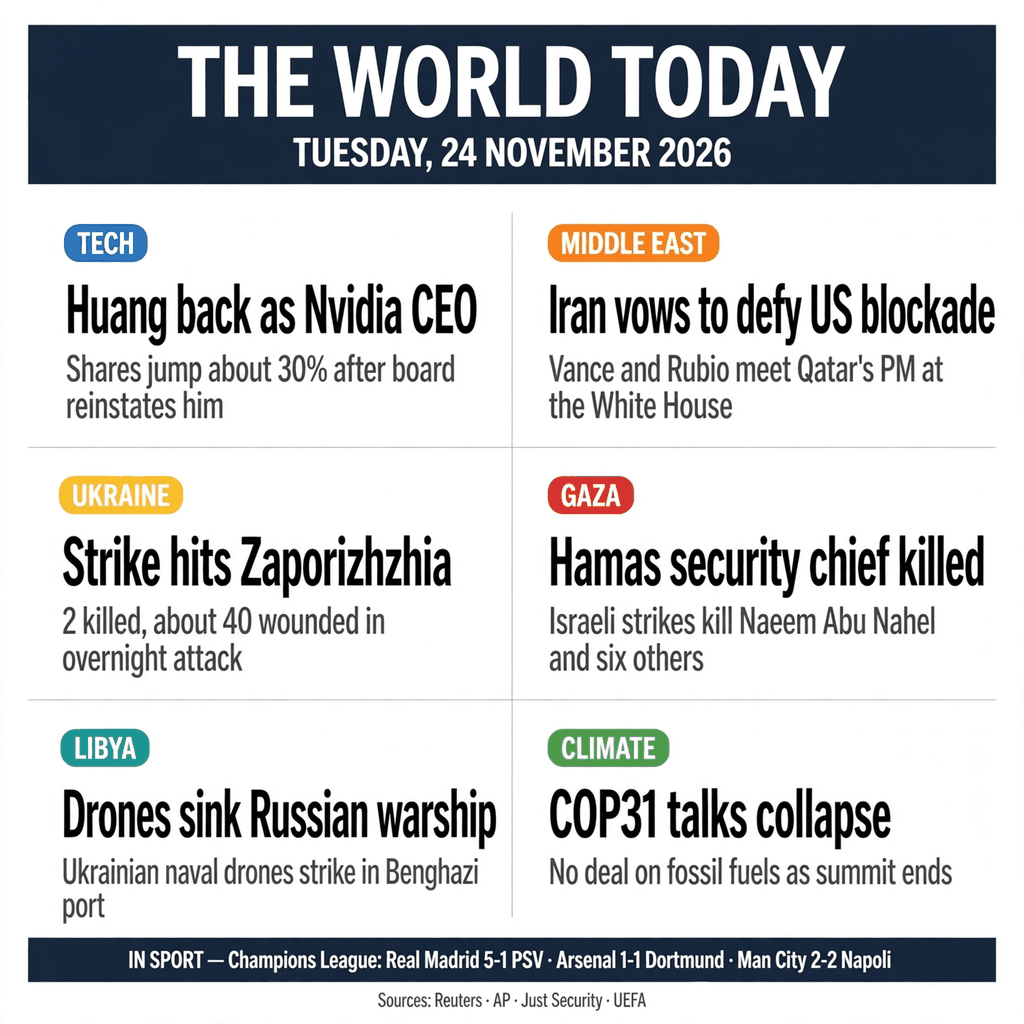
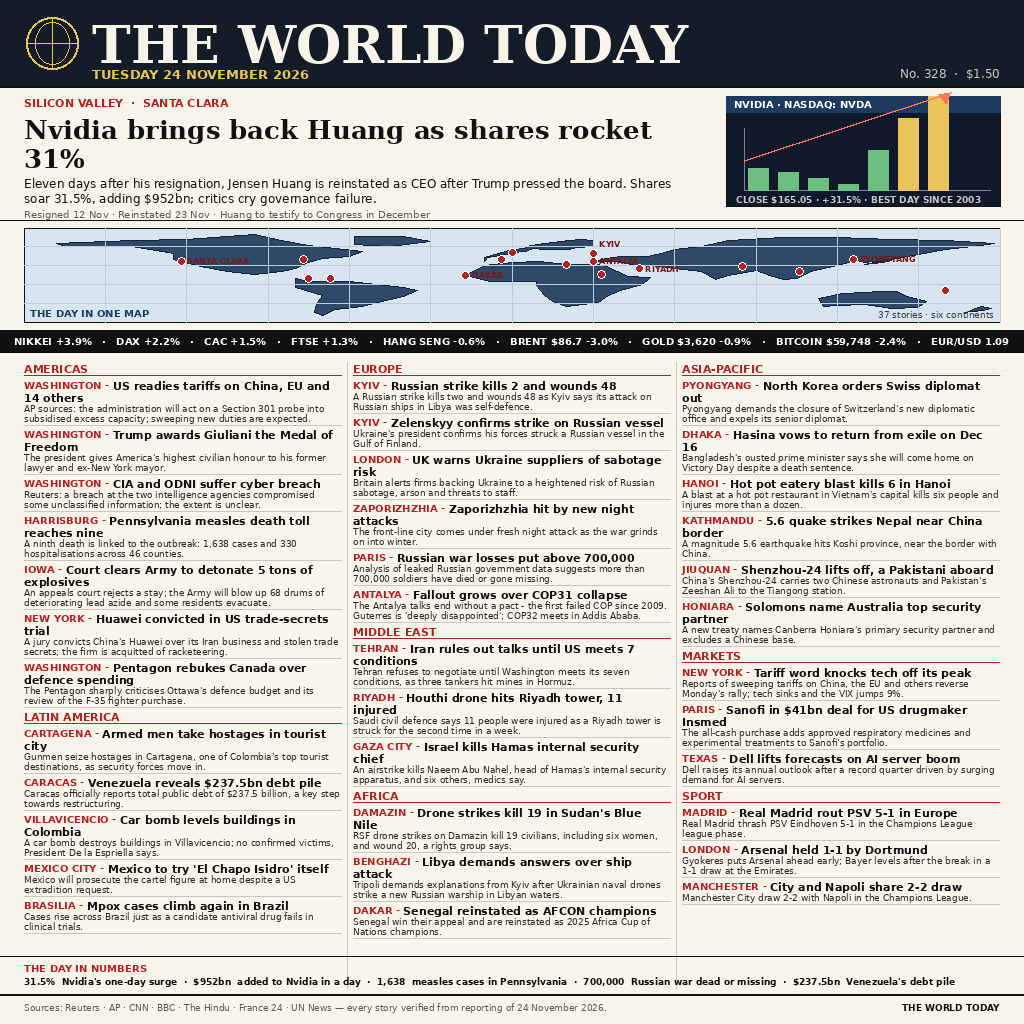
Dense edition: 37 verified stories for 24 November 2026

diff --git a/main.ts b/main.ts
@@ -1,6 +1,8 @@
-// News-image entry: the summary image is a static file in this repository.
-// The program only copies its bytes to the output directory, so every run
-// writes byte-identical output.
+// News-image entry for 24 November 2026: the summary page is a static
+// file in this repository. The program only copies its bytes to the
+// output directory, so every run writes byte-identical output. No network,
+// no randomness, no timestamps in the output: two runs produce the same
+// sha256.
 import { copyFileSync, mkdirSync } from "node:fs";
 import { dirname, join } from "node:path";
 import { fileURLToPath } from "node:url";

diff --git a/README.md b/README.md
@@ -4,7 +4,7 @@
 [![rank](https://make.fun/badge/news-image-20261124/zzlau777/news-image-20261124/rank.svg)](https://make.fun/bounty/news-image-20261124/leaderboard?utm_source=github&utm_medium=readme&utm_campaign=news-image-20261124)
 [![reward](https://make.fun/badge/news-image-20261124/zzlau777/news-image-20261124/reward.svg)](https://make.fun/bounty/news-image-20261124?utm_source=github&utm_medium=readme&utm_campaign=news-image-20261124)
 
-One image summing up the world's news of Tuesday 24 November 2026: Nvidia brings Jensen Huang back as CEO (shares jump ~30%); Iran vows to defy the US naval blockade as Vance and Rubio meet Qatar's PM at the White House; a Russian strike hits Zaporizhzhia (2 killed, ~40 wounded); Israeli strikes kill Hamas security chief Naeem Abu Nahel and six others in Gaza; Ukrainian naval drones sink a Russian warship in Benghazi port; COP31 climate talks collapse with no deal on fossil fuels. In sport: Champions League — Real Madrid 5-1 PSV, Arsenal 1-1 Dortmund, Man City 2-2 Napoli.
+One image summing up the world's news of Tuesday 24 November 2026 — 37 verified stories across six continents: Nvidia reinstates Jensen Huang as CEO eleven days after his resignation and the shares rocket 31.5%, adding $952bn in a day; Washington readies tariffs on China, the EU and 14 others over subsidised excess capacity; a Russian strike kills 2 and wounds 48 in Ukraine while Kyiv confirms striking a Russian vessel in the Gulf of Finland and its drones hit a Russian warship off Libya; Israel kills Hamas's internal security chief in Gaza City; RSF drone strikes kill 19 civilians in Sudan's Blue Nile state; fallout grows over the COP31 collapse in Antalya; North Korea orders the Swiss diplomat out; Shenzhou-24 lifts off with Pakistan's first astronaut aboard; and in sport, Real Madrid rout PSV 5-1, Arsenal draw 1-1 with Dortmund and Manchester City draw 2-2 with Napoli.
 
 ## Run it
 
@@ -12,11 +12,11 @@ One image summing up the world's news of Tuesday 24 November 2026: Nvidia brings
 mkdir -p out && MAKEFUN_OUTPUT_DIR=out node main.ts
 ```
 
-Node 22.18 or later, standard library only. The program copies `entry.png` (1024×1024, 224,830 bytes) to `$MAKEFUN_OUTPUT_DIR/entry.png`; every run writes identical bytes.
+Node 22.18 or later, standard library only. The program copies `entry.png` (1024×1024, 240,978 bytes) to `$MAKEFUN_OUTPUT_DIR/entry.png`; every run writes identical bytes.
 
 ## Sources
 
-Reuters, AP, Just Security, UEFA — each story verified against reporting from 24 November 2026.
+Reuters (Hamas security chief, Sudan drone strikes, CIA/ODNI breach, COP31), AP via WSOC (tariffs, Cartagena hostages, North Korea–Switzerland, Shenzhou-24, Solomon Islands treaty, Hanoi blast, Pentagon–Canada), CNN (Nvidia/Huang, COP31), CEOWORLD and Le Monde (Huang reinstatement), BBC (UK sabotage warning, Burnham panel), The Hindu (Iran conditions, Colombia car bomb), France 24 via Hansen Intel (Russian losses), UN News (COP31), the Los Angeles Post (Venezuela debt, Huawei conviction, Senegal AFCON, Mpox Brazil, Lukashenko), the Russell Record daily headlines (Pennsylvania measles, Iowa explosives, Hasina return, Sanofi–Insmed), Horizon day page for 24 November 2026 (Zaporizhzhia, Nepal quake, market closes), StatMuse (Bitcoin close) — each story verified against reporting dated 24 November 2026.
 
 ---
 
